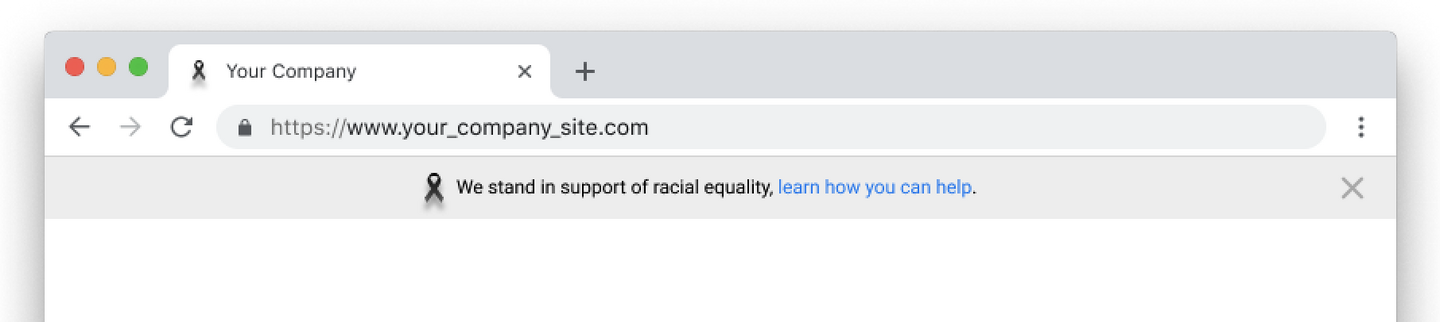
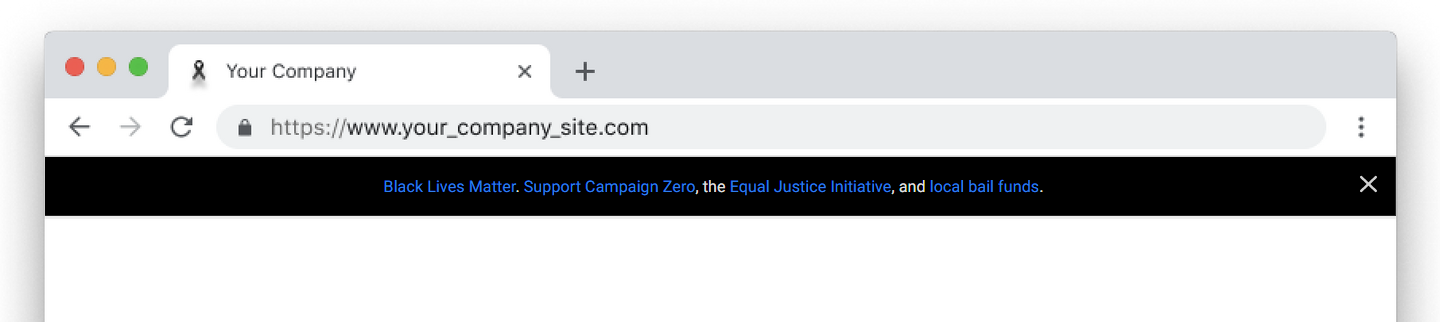
Change styling and wording

Changed region(s): [[0.0312, 0.4658, 0.9688, 0.6832]]

diff --git a/racial-equity-banner-bottom.js b/racial-equity-banner-bottom.js
@@ -8,7 +8,7 @@
   }
 
   function template(layout) {
-    return "\n<div class=\"allies__banner allies__hidden\">\n  <span>\n    <span class=\"allies__text\"\n      >We stand in support of racial equity and justice,&nbsp;</span\n    ><span class=\"allies__text\"\n      ><a href=\"https://blacklivesmatters.carrd.co/\" target=\"_blank\"\n        >learn how you can help</a\n      >.</span\n    >\n  </span>\n\n  <span\n    role=\"button\"\n    class=\"allies__dismiss\"\n    id=\"dismiss-allies\"\n    aria-label=\"dismiss\"\n    tabindex=\"0\"\n  >\n    <svg width=\"15\" height=\"15\" fill=\"none\" xmlns=\"http://www.w3.org/2000/svg\">\n      <path\n        d=\"M13.25 1.75l-11.5 11.5M1.75 1.75l11.5 11.5\"\n        stroke=\"#e1e1e1\"\n        stroke-width=\"2\"\n        stroke-linecap=\"round\"\n        stroke-linejoin=\"round\"\n      />\n    </svg>\n  </span>\n</div>\n";
+    return "\n<div class=\"allies__banner allies__hidden\">\n  <span>\n    <span class=\"allies__text\"><a href=\"https://blacklivesmatter.com/\" target=\"_blank\">Black Lives Matter</a>. <a href=\"https://www.joincampaignzero.org/\" target=\"_blank\">Support Campaign Zero</a>,</span>\n    <span class=\"allies__text\">the <a href=\"https://support.eji.org/give/153413/#!/donation/checkout\" target=\"_blank\">Equal Justice Initiative</a>, </span>\n    <span class=\"allies__text\">and <a href=\"https://bailfunds.github.io/\" target=\"_blank\">local bail funds</a>.</span>\n  </span>\n\n  <span\n    role=\"button\"\n    class=\"allies__dismiss\"\n    id=\"dismiss-allies\"\n    aria-label=\"dismiss\"\n    tabindex=\"0\"\n  >\n    <svg width=\"15\" height=\"15\" fill=\"none\" xmlns=\"http://www.w3.org/2000/svg\">\n      <path\n        d=\"M13.25 1.75l-11.5 11.5M1.75 1.75l11.5 11.5\"\n        stroke=\"#d1d1d1\"\n        stroke-width=\"2\"\n        stroke-linecap=\"round\"\n        stroke-linejoin=\"round\"\n      />\n    </svg>\n  </span>\n</div>\n";
   }
 
   var styleTag;
@@ -18,7 +18,7 @@
   function start(_ref) {
     var layout = _ref.layout;
     createStyles(layout);
-    createBanner();
+    createBanner(layout);
     setTimeout(function () {
       bannerTag.querySelector(".allies__banner").className = "allies__banner";
     }, 500);
@@ -41,13 +41,13 @@
     bannerTag.innerHTML = template();
     document.body.parentElement.appendChild(bannerTag);
     var dismiss = bannerTag.querySelector("#dismiss-allies");
-    dismiss.addEventListener("click", dismissBanner);
+    dismiss.addEventListener("click", dismissBanner.bind(null, layout));
     dismiss.addEventListener("keydown", handleKeyboardClick(dismissBanner));
   }
 
-  function dismissBanner() {
+  function dismissBanner(layout) {
     bannerTag.querySelector(".allies__banner").className = "allies__banner allies__hidden";
-    setTimeout(cleanup, 500);
+    setTimeout(cleanup, layout === 'fullscreen' ? 0 : 500);
   }
 
   function cleanup() {

diff --git a/racial-equity-banner-fullscreen.js b/racial-equity-banner-fullscreen.js
@@ -8,7 +8,7 @@
   }
 
   function template(layout) {
-    return "\n<div class=\"allies__banner allies__hidden\">\n  <span>\n    <span class=\"allies__text\"\n      >We stand in support of racial equity and justice,&nbsp;</span\n    ><span class=\"allies__text\"\n      ><a href=\"https://blacklivesmatters.carrd.co/\" target=\"_blank\"\n        >learn how you can help</a\n      >.</span\n    >\n  </span>\n\n  <span\n    role=\"button\"\n    class=\"allies__dismiss\"\n    id=\"dismiss-allies\"\n    aria-label=\"dismiss\"\n    tabindex=\"0\"\n  >\n    <svg width=\"15\" height=\"15\" fill=\"none\" xmlns=\"http://www.w3.org/2000/svg\">\n      <path\n        d=\"M13.25 1.75l-11.5 11.5M1.75 1.75l11.5 11.5\"\n        stroke=\"#e1e1e1\"\n        stroke-width=\"2\"\n        stroke-linecap=\"round\"\n        stroke-linejoin=\"round\"\n      />\n    </svg>\n  </span>\n</div>\n";
+    return "\n<div class=\"allies__banner allies__hidden\">\n  <span>\n    <span class=\"allies__text\"><a href=\"https://blacklivesmatter.com/\" target=\"_blank\">Black Lives Matter</a>. <a href=\"https://www.joincampaignzero.org/\" target=\"_blank\">Support Campaign Zero</a>,</span>\n    <span class=\"allies__text\">the <a href=\"https://support.eji.org/give/153413/#!/donation/checkout\" target=\"_blank\">Equal Justice Initiative</a>, </span>\n    <span class=\"allies__text\">and <a href=\"https://bailfunds.github.io/\" target=\"_blank\">local bail funds</a>.</span>\n  </span>\n\n  <span\n    role=\"button\"\n    class=\"allies__dismiss\"\n    id=\"dismiss-allies\"\n    aria-label=\"dismiss\"\n    tabindex=\"0\"\n  >\n    <svg width=\"15\" height=\"15\" fill=\"none\" xmlns=\"http://www.w3.org/2000/svg\">\n      <path\n        d=\"M13.25 1.75l-11.5 11.5M1.75 1.75l11.5 11.5\"\n        stroke=\"#d1d1d1\"\n        stroke-width=\"2\"\n        stroke-linecap=\"round\"\n        stroke-linejoin=\"round\"\n      />\n    </svg>\n  </span>\n</div>\n";
   }
 
   var styleTag;
@@ -18,7 +18,7 @@
   function start(_ref) {
     var layout = _ref.layout;
     createStyles(layout);
-    createBanner();
+    createBanner(layout);
     setTimeout(function () {
       bannerTag.querySelector(".allies__banner").className = "allies__banner";
     }, 500);
@@ -41,13 +41,13 @@
     bannerTag.innerHTML = template();
     document.body.parentElement.appendChild(bannerTag);
     var dismiss = bannerTag.querySelector("#dismiss-allies");
-    dismiss.addEventListener("click", dismissBanner);
+    dismiss.addEventListener("click", dismissBanner.bind(null, layout));
     dismiss.addEventListener("keydown", handleKeyboardClick(dismissBanner));
   }
 
-  function dismissBanner() {
+  function dismissBanner(layout) {
     bannerTag.querySelector(".allies__banner").className = "allies__banner allies__hidden";
-    setTimeout(cleanup, 500);
+    setTimeout(cleanup, layout === 'fullscreen' ? 0 : 500);
   }
 
   function cleanup() {

diff --git a/racial-equity-banner.js b/racial-equity-banner.js
@@ -8,7 +8,7 @@
   }
 
   function template(layout) {
-    return "\n<div class=\"allies__banner allies__hidden\">\n  <span>\n    <span class=\"allies__text\"\n      >We stand in support of racial equity and justice,&nbsp;</span\n    ><span class=\"allies__text\"\n      ><a href=\"https://blacklivesmatters.carrd.co/\" target=\"_blank\"\n        >learn how you can help</a\n      >.</span\n    >\n  </span>\n\n  <span\n    role=\"button\"\n    class=\"allies__dismiss\"\n    id=\"dismiss-allies\"\n    aria-label=\"dismiss\"\n    tabindex=\"0\"\n  >\n    <svg width=\"15\" height=\"15\" fill=\"none\" xmlns=\"http://www.w3.org/2000/svg\">\n      <path\n        d=\"M13.25 1.75l-11.5 11.5M1.75 1.75l11.5 11.5\"\n        stroke=\"#e1e1e1\"\n        stroke-width=\"2\"\n        stroke-linecap=\"round\"\n        stroke-linejoin=\"round\"\n      />\n    </svg>\n  </span>\n</div>\n";
+    return "\n<div class=\"allies__banner allies__hidden\">\n  <span>\n    <span class=\"allies__text\"><a href=\"https://blacklivesmatter.com/\" target=\"_blank\">Black Lives Matter</a>. <a href=\"https://www.joincampaignzero.org/\" target=\"_blank\">Support Campaign Zero</a>,</span>\n    <span class=\"allies__text\">the <a href=\"https://support.eji.org/give/153413/#!/donation/checkout\" target=\"_blank\">Equal Justice Initiative</a>, </span>\n    <span class=\"allies__text\">and <a href=\"https://bailfunds.github.io/\" target=\"_blank\">local bail funds</a>.</span>\n  </span>\n\n  <span\n    role=\"button\"\n    class=\"allies__dismiss\"\n    id=\"dismiss-allies\"\n    aria-label=\"dismiss\"\n    tabindex=\"0\"\n  >\n    <svg width=\"15\" height=\"15\" fill=\"none\" xmlns=\"http://www.w3.org/2000/svg\">\n      <path\n        d=\"M13.25 1.75l-11.5 11.5M1.75 1.75l11.5 11.5\"\n        stroke=\"#d1d1d1\"\n        stroke-width=\"2\"\n        stroke-linecap=\"round\"\n        stroke-linejoin=\"round\"\n      />\n    </svg>\n  </span>\n</div>\n";
   }
 
   var styleTag;
@@ -18,7 +18,7 @@
   function start(_ref) {
     var layout = _ref.layout;
     createStyles(layout);
-    createBanner();
+    createBanner(layout);
     setTimeout(function () {
       bannerTag.querySelector(".allies__banner").className = "allies__banner";
     }, 500);
@@ -41,13 +41,13 @@
     bannerTag.innerHTML = template();
     document.body.parentElement.appendChild(bannerTag);
     var dismiss = bannerTag.querySelector("#dismiss-allies");
-    dismiss.addEventListener("click", dismissBanner);
+    dismiss.addEventListener("click", dismissBanner.bind(null, layout));
     dismiss.addEventListener("keydown", handleKeyboardClick(dismissBanner));
   }
 
-  function dismissBanner() {
+  function dismissBanner(layout) {
     bannerTag.querySelector(".allies__banner").className = "allies__banner allies__hidden";
-    setTimeout(cleanup, 500);
+    setTimeout(cleanup, layout === 'fullscreen' ? 0 : 500);
   }
 
   function cleanup() {

diff --git a/src/template.js b/src/template.js
@@ -1,16 +1,12 @@
 export default function template(layout) {
-  const isFullScreen = layout === 'fullscreen';
+  const isFullScreen = layout === "fullscreen";
 
   return `
 <div class="allies__banner allies__hidden">
   <span>
-    <span class="allies__text"
-      >We stand in support of racial equity and justice,&nbsp;</span
-    ><span class="allies__text"
-      ><a href="https://blacklivesmatters.carrd.co/" target="_blank"
-        >learn how you can help</a
-      >.</span
-    >
+    <span class="allies__text"><a href="https://blacklivesmatter.com/" target="_blank">Black Lives Matter</a>. <a href="https://www.joincampaignzero.org/" target="_blank">Support Campaign Zero</a>,</span>
+    <span class="allies__text">the <a href="https://support.eji.org/give/153413/#!/donation/checkout" target="_blank">Equal Justice Initiative</a>, </span>
+    <span class="allies__text">and <a href="https://bailfunds.github.io/" target="_blank">local bail funds</a>.</span>
   </span>
 
   <span

diff --git a/src/banner.js b/src/banner.js
@@ -34,14 +34,14 @@ function createBanner(layout) {
 
   document.body.parentElement.appendChild(bannerTag);
   const dismiss = bannerTag.querySelector("#dismiss-allies");
-  dismiss.addEventListener("click", dismissBanner);
+  dismiss.addEventListener("click", dismissBanner.bind(null, layout));
   dismiss.addEventListener("keydown", handleKeyboardClick(dismissBanner));
 }
 
-function dismissBanner() {
+function dismissBanner(layout) {
   bannerTag.querySelector(".allies__banner").className =
     "allies__banner allies__hidden";
-  setTimeout(cleanup, 500);
+  setTimeout(cleanup, layout === 'fullscreen' ? 0 : 500);
 }
 
 function cleanup() {

diff --git a/README.md b/README.md
@@ -9,19 +9,19 @@ Show your support for Racial Equity and Justice by adding this banner to your co
 Simply add the following script to your page:
 
 ```html
-<script src="https://cdn.jsdelivr.net/npm/racial-equity-banner@1.0.2/racial-equity-banner.js" async></script> 
+<script src="https://cdn.jsdelivr.net/npm/racial-equity-banner@1.0.3/racial-equity-banner.js" async></script> 
 ```
 
 If you want the banner fixed the bottom of the page, use:
 
 ```html
-<script src="https://cdn.jsdelivr.net/npm/racial-equity-banner@1.0.2/racial-equity-banner-bottom.js" async></script> 
+<script src="https://cdn.jsdelivr.net/npm/racial-equity-banner@1.0.3/racial-equity-banner-bottom.js" async></script> 
 ```
 
 If you want a fullscreen modal:
 
 ```html
-<script src="https://cdn.jsdelivr.net/npm/racial-equity-banner@1.0.2/racial-equity-banner-fullscreen.js" async></script> 
+<script src="https://cdn.jsdelivr.net/npm/racial-equity-banner@1.0.3/racial-equity-banner-fullscreen.js" async></script> 
 ```
 
 ## Example
